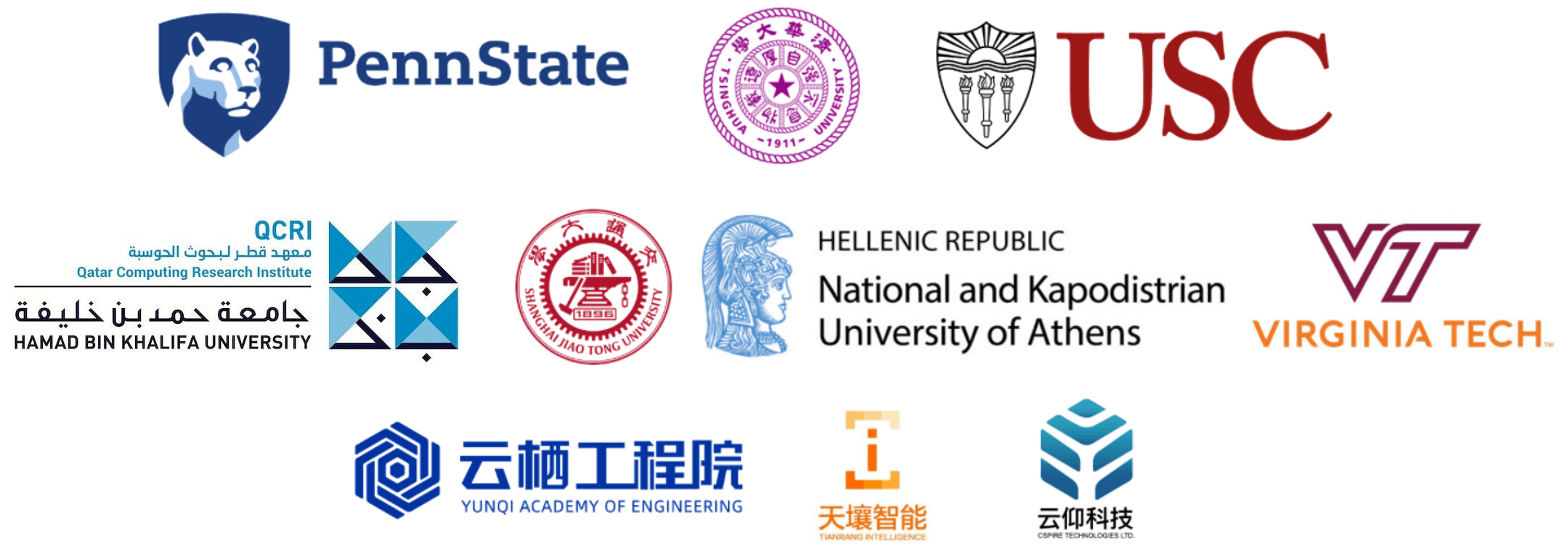
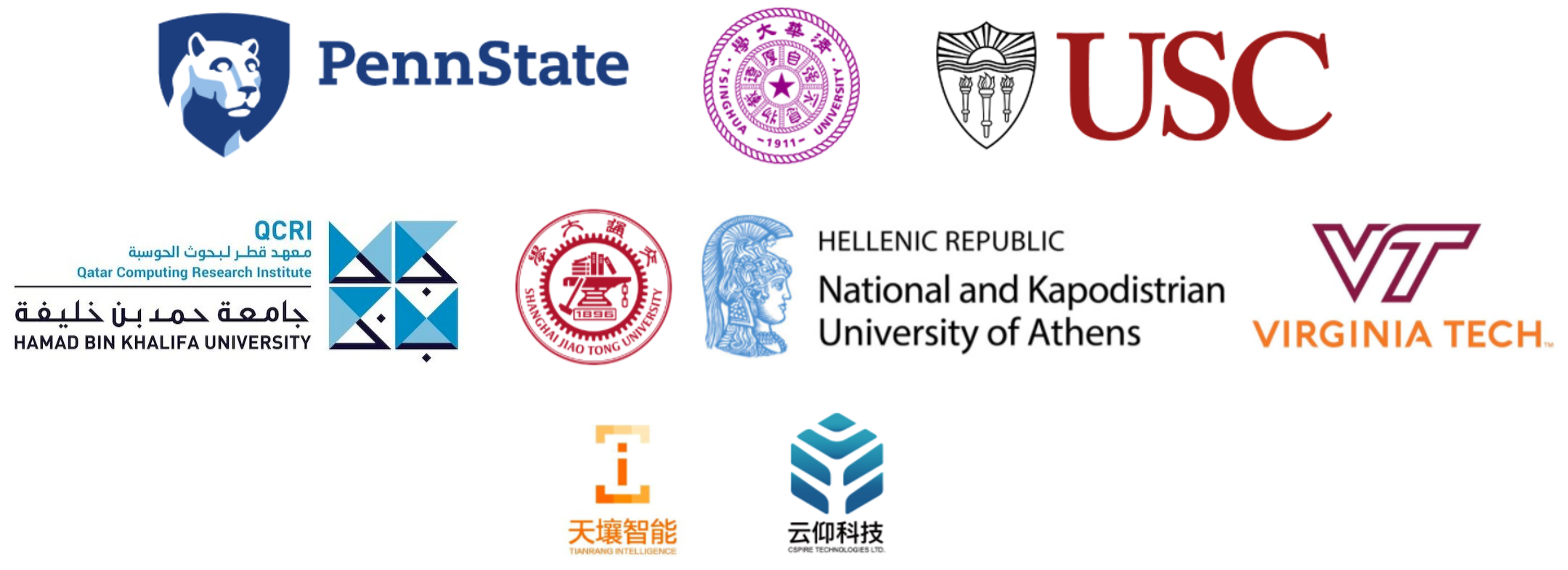
update sponsor

diff --git a/index.html b/index.html
@@ -136,7 +136,7 @@
                                 University of Southern California, Qatar Computing Research Institute,
                                 Shanghai Jiao Tong University, National and Kapodistrian University of Athens,
                                 and Virginia Tech,
-                                with the support from Yunqi Academy of Engineering, CSPIRE Technologies, and Tianrang Intelligence.</h4>
+                                with the support from CSPIRE Technologies, and Tianrang Intelligence.</h4>
                         </figcaption>
                         <img src="img/sponsors.png" class="img-responsive" alt="Image">
                     </figure>
